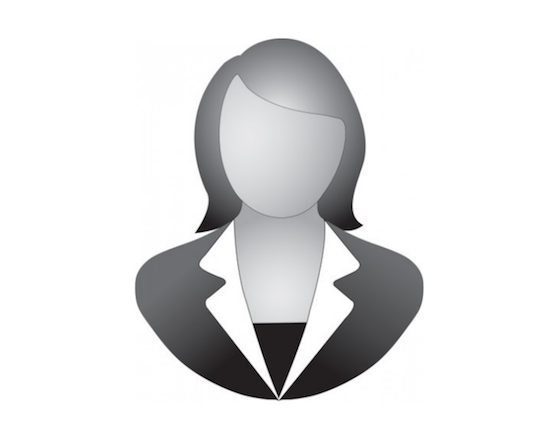
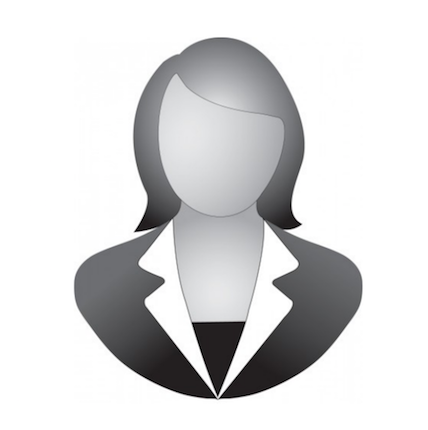
added profile pic set

Changed region(s): [[0.1519, 0.0907, 0.8505, 0.9372], [0.486, 0.0605, 0.5467, 0.0907]]

diff --git a/BusinessCard/FormViewController.swift b/BusinessCard/FormViewController.swift
@@ -8,19 +8,28 @@
 
 import UIKit
 
-class FormViewController: UIViewController {
+class FormViewController: UIViewController, UIImagePickerControllerDelegate, UINavigationControllerDelegate {
     @IBOutlet weak var cameraButtonLabel: SimpleButton!
     @IBOutlet weak var libraryButtonLabel: SimpleButton!
     @IBOutlet weak var doneButtonLabel: SimpleButton!
+    @IBOutlet weak var picToSave: UIImageView!
     
     let backgroundColor = UIColor(red: 179/255, green: 204/255, blue: 230/255, alpha: 1)
     let borderColor = UIColor(red: 140/255, green: 177/255, blue: 217/255, alpha: 1)
     let backgroundColorPressed = UIColor(red: 121/255, green: 164/255, blue: 210/255, alpha: 1)
     let borderColorPressed = UIColor(red: 64/255, green: 125/255, blue: 191/255, alpha: 1)
 
+    override func didReceiveMemoryWarning() {
+        super.didReceiveMemoryWarning()
+        // Dispose of any resources that can be recreated.
+    }
 
     override func viewDidLoad() {
         super.viewDidLoad()
+        
+        picToSave.clipsToBounds = true;
+        picToSave.layer.cornerRadius = 20;
+        picToSave.layer.cornerRadius = picToSave.frame.size.height/2;
         //****button setup
         //http://aloco.github.io/SimpleButton/swift_output/
         //https://github.com/aloco/SimpleButton
@@ -69,18 +78,40 @@ class FormViewController: UIViewController {
         // Do any additional setup after loading the view, typically from a nib.
     }
 
-    override func didReceiveMemoryWarning() {
-        super.didReceiveMemoryWarning()
-        // Dispose of any resources that can be recreated.
+    
+    
+    
+    @IBAction func libraryButtonAction(_ sender: SimpleButton) {
+        if UIImagePickerController.isSourceTypeAvailable(UIImagePickerControllerSourceType.photoLibrary){
+            let imagePicker = UIImagePickerController()
+            imagePicker.delegate = self
+            imagePicker.sourceType = UIImagePickerControllerSourceType.photoLibrary;
+            imagePicker.allowsEditing = true
+            self.present(imagePicker, animated: true, completion: nil)
+        }
     }
-
     
-    
-    
-    
-    @IBAction func cameraButtonAction(_ sender: UIButton) {
+    @IBAction func cameraButtonAction(_ sender: SimpleButton) {
+        if UIImagePickerController.isSourceTypeAvailable(UIImagePickerControllerSourceType.camera){
+            let imagePicker = UIImagePickerController()
+            imagePicker.delegate = self
+            imagePicker.sourceType = UIImagePickerControllerSourceType.camera;
+            imagePicker.allowsEditing = false
+            self.present(imagePicker, animated: true, completion: nil)
+        }
     }
     
+    func imagePickerController(_ picker: UIImagePickerController, didFinishPickingImage image: UIImage!, editingInfo: [NSObject : AnyObject]!) {
+        picToSave.image = image
+        self.dismiss(animated: true, completion: nil);
+    }
+    
+    
+    @IBAction func doneButtonAction(_ sender: SimpleButton) {
+        let imageData = UIImageJPEGRepresentation(picToSave.image!, 0.6)
+        let compressedJPEGImage = UIImage(data: imageData!)
+        UIImageWriteToSavedPhotosAlbum(compressedJPEGImage!, nil, nil, nil)
+    }
 
 }
 
